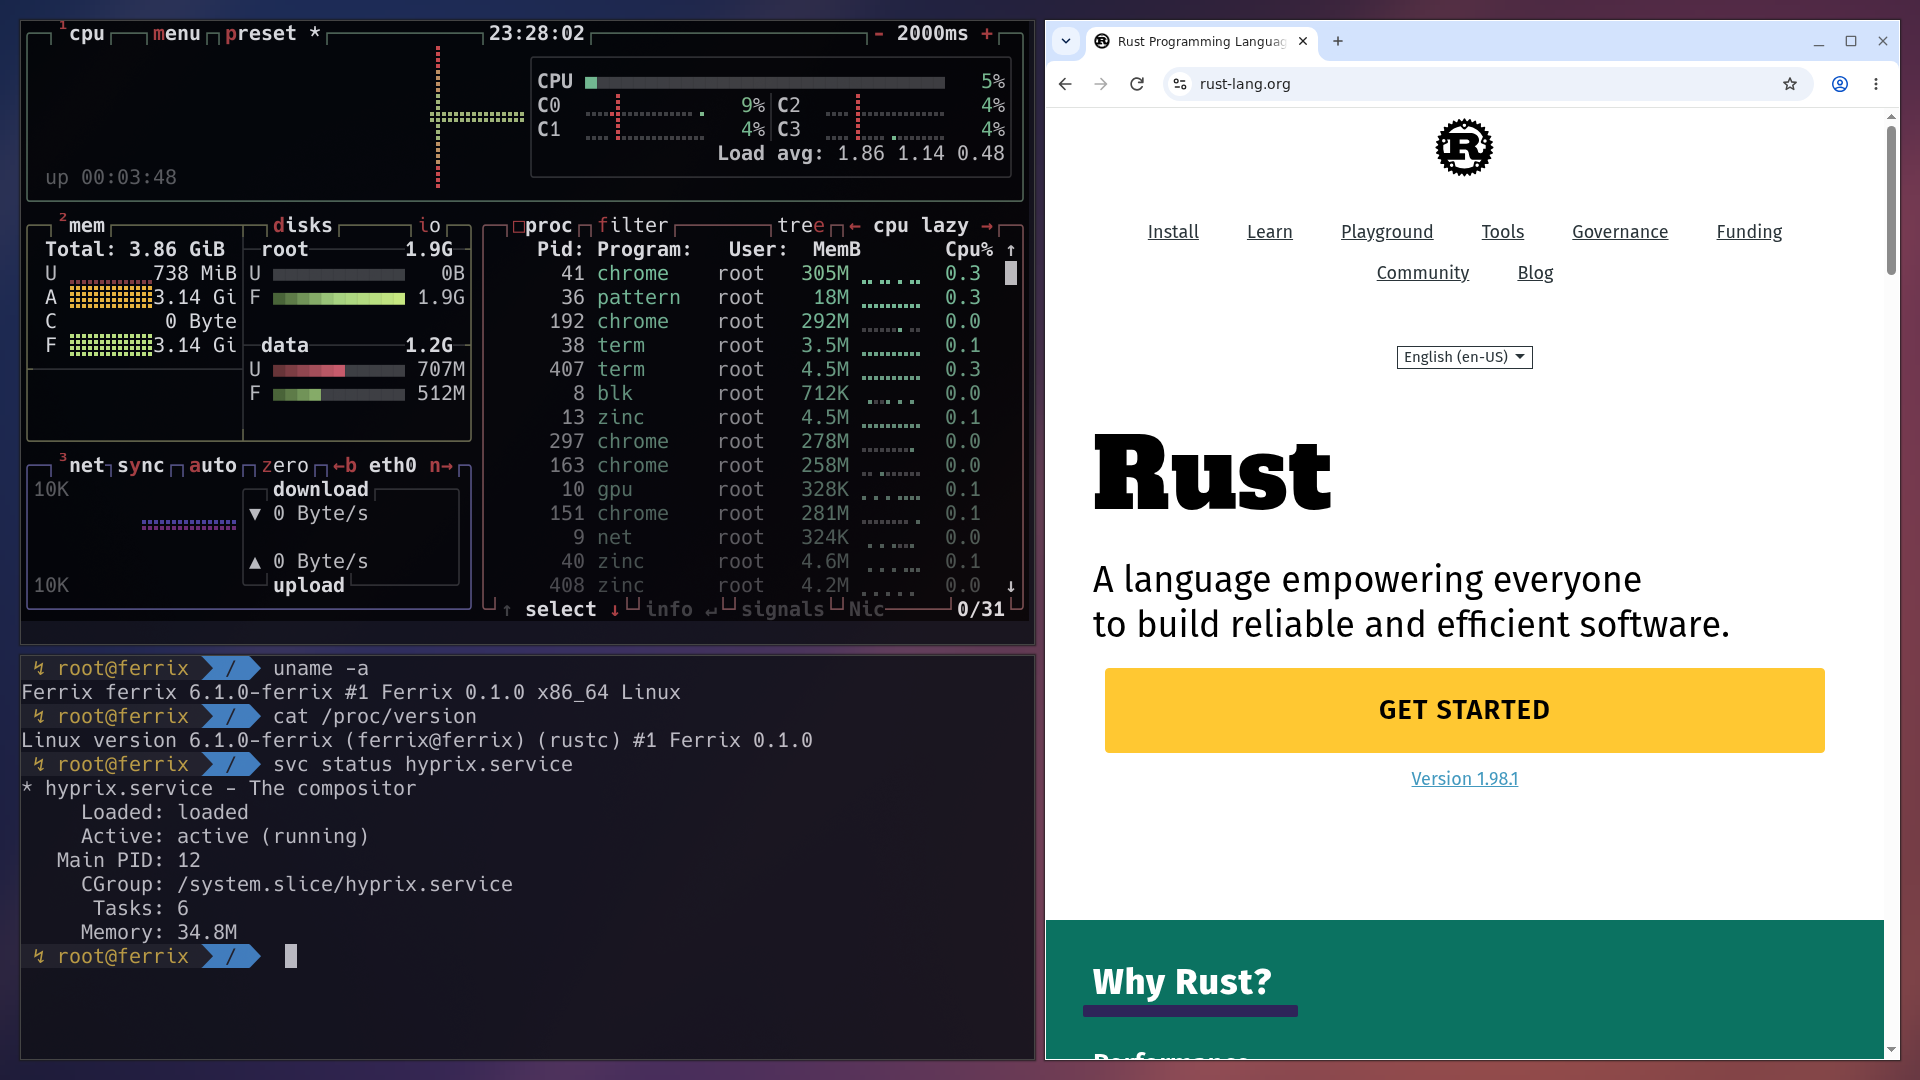
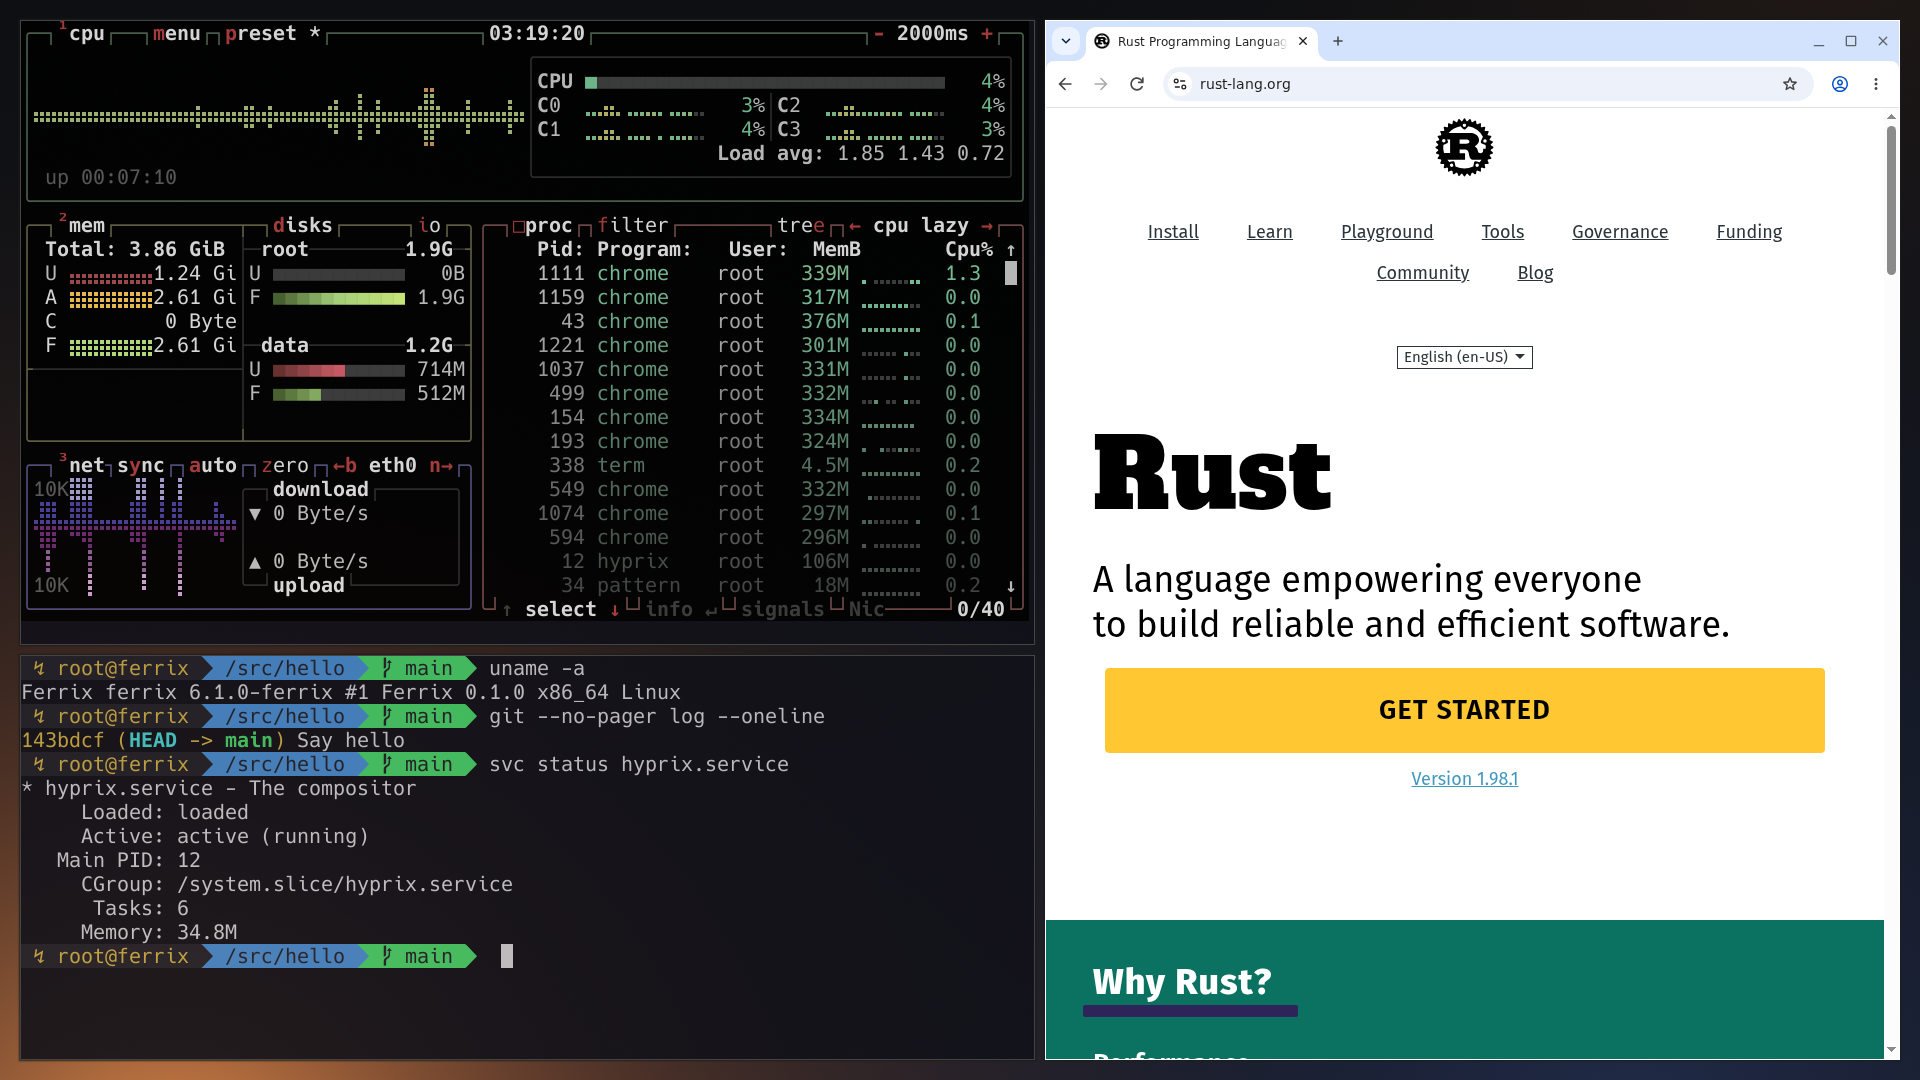
Re-shoot the screenshots: ember, a clean git prompt, and btop under load
The four captures come from one boot at 967bf3f5 with no kept wallpaper, so
xtask's own ember picture shows. zinc's agnoster prompt sits in a small clean
repository in the guest, and btop was captured after two minutes of Chrome
loading pages, so its CPU and eth0 history is real load, not its idle
baseline. btop is never typed into: windows move with hyprctl over ssh.
CAPTIONS.md says how each was made.

diff --git a/docs/brand/screenshots/CAPTIONS.md b/docs/brand/screenshots/CAPTIONS.md
@@ -1,54 +1,79 @@
 # Ferrix screenshots, 2026-09-27
 
-All the images come from one boot of Ferrix at main 2825c3e2. The guest is x86_64
+All the images come from one boot of Ferrix at main 967bf3f5. The guest is x86_64
 under QEMU with KVM, 4 vCPUs and 4 GiB of RAM, on a virtio-gpu 3D card (virgl). The
 screen is 1920x1080 and was captured over VNC. Nothing was edited after capture. The
-background is an abstract gradient made for these shots (a generated PNG, converted with
-`cargo xtask wallpapers`). It is not one of the kept wallpapers.
+background is `ember`, the picture xtask draws when no wallpaper is kept or named. It is
+not one of the kept wallpapers.
+
+The load btop shows is real: Chrome loaded and scrolled a page every ten seconds or so
+(rust-lang.org, Wikipedia, the Rust book, GitHub, docs.rs, the Rust blog) for about two
+minutes before each btop capture. The git prompt is a small repository made in the
+guest, `/src/hello`, with one commit and a clean tree.
 
 ## Captions
 
 - **desktop-hero.png**: The hyprix Wayland compositor on Ferrix (x86_64, KVM) with three
-  tiled windows: btop, zinc with its oh-my-zsh prompt after `uname -a`,
-  `cat /proc/version` and `svc status hyprix.service`, and Chrome 154 showing
-  rust-lang.org over the guest's network.
+  tiled windows: btop after two minutes of Chrome loading pages, zinc with its oh-my-zsh
+  prompt in a git repository after `uname -a`, `git log` and
+  `svc status hyprix.service`, and Chrome 154 showing rust-lang.org over the guest's
+  network.
 - **desktop-chrome.png**: Chrome 154 (Chrome for Testing) on Ferrix's hyprix compositor,
   showing the Wikipedia article on Rust. Chrome runs on ferrousli, Ferrix's own libc, and
   renders in software. x86_64, KVM.
-- **terminal-omz.png**: zinc, Ferrix's zsh-compatible shell, running oh-my-zsh's prompt
-  in hyprix's terminal. The output shows `uname`, the ring-3 driver processes (devmgr,
-  input, blk, net, gpu), the services `svc` runs, a tmpfs root beside a btrfs volume, and
-  `curl` fetching rust-lang.org over HTTPS. x86_64, KVM.
-- **btop.png**: btop, built against ferrousli, monitoring a live Ferrix system: Chrome's
-  processes, the compositor, the user-space drivers, memory, disks and eth0. x86_64, KVM.
+- **terminal-omz.png**: zinc, Ferrix's zsh-compatible shell, running oh-my-zsh's
+  agnoster prompt in hyprix's terminal, in a clean git repository. The output shows
+  `uname`, the ring-3 driver processes (devmgr, input, blk, net, gpu), the services `svc`
+  runs, a tmpfs root beside a btrfs volume, `git status`, and `curl` fetching
+  rust-lang.org over HTTPS. x86_64, KVM.
+- **btop.png**: btop, built against ferrousli, monitoring a live Ferrix system after two
+  minutes of Chrome loading pages: the CPU and eth0 history, Chrome's processes, the
+  compositor, the user-space drivers, memory and disks. x86_64, KVM.
 
 ## Commands
 
-On the host:
+On the host (`<empty>` is an empty directory, so no kept wallpaper is found and `ember`
+shows):
 
 ```
-git -C /home/sebastian/Documents/projects/os/ferrix worktree add -b shots .claude/worktrees/shots main
-# generated wallpapers/ferrix-ember.png (PIL gradient), then:
-FERRIX_WALLPAPERS=<scratch>/walls CARGO_TARGET_DIR=<worktree>/target \
-  cargo xtask wallpapers --from <scratch>/wallsrc
-FERRIX_WALLPAPERS=<scratch>/walls CARGO_TARGET_DIR=<worktree>/target \
+git -C /home/sebastian/Documents/projects/os/ferrix worktree add -b e4-shots .claude/worktrees/e4-shots main
+FERRIX_WALLPAPERS=<empty> CARGO_TARGET_DIR=<target> \
   cargo xtask run-compositor --arch x86_64 --chrome --release --tmpfs-root --accel kvm \
-    --vnc 127.0.0.1:61 --ssh 2297 --layout us --wallpaper ember
+    --vnc 127.0.0.1:74 --ssh 2374 --layout us
 ```
 
 `--layout us` makes the guest read US keys, so the VNC driver's keysyms type correctly.
 
-Driving the desktop (the steps given to `vncdrive.py 127.0.0.1 5961`, a copy with
-`super` and a few more keysyms added):
+The git repository, over ssh (`ssh -i ~/.local/share/ferrix/ssh/id_ed25519 -p 2374
+root@127.0.0.1`):
 
-- Chrome's address bar: `click 1380 84 1 key ctrl a ; type https://www.rust-lang.org key Return ;`
-- In zinc: `uname -a`, `cat /proc/version`, `svc status hyprix.service`
+```
+mkdir -p /src/hello/src && cd /src/hello
+# a Cargo.toml and a src/main.rs that prints "Hello from Ferrix"
+git init -q -b main && git add . && git commit -q -m "Say hello"
+```
+
+Driving the desktop (the steps given to `vncdrive.py 127.0.0.1 5974`, a copy with
+`super` and a few more keysyms added). btop is never typed into or clicked: windows are
+moved with `hyprctl` over ssh, which acts on the focused window.
+
 - A second terminal: `key super Return ;`. In it,
   `hyprctl dispatch resizeactive 80 110` (btop needs 80x24 cells and a half-screen
   tile gives 77x21), then `clear; btop`
-- Chrome alone: `key super shift 2 ;` then `key super 2 ;`, then the address bar set to
-  `https://en.wikipedia.org/wiki/Rust_(programming_language)`
-- The terminal shot: `hyprctl dispatch movetoworkspace 3`, then
-  `uname -srm`, `ps -o pid,comm | head -12`, `svc list | grep running`,
-  `df -h / /data`, `curl -sI https://rust-lang.org/ | head -3`
+- Load, repeated per page: `click 1500 84 1 key ctrl a ; type <url> key Return ;
+  sleep 7 wheel down 10 1470 600 sleep 2 wheel down 10 1470 600 sleep 2`
+- In the other zinc: `cd /src/hello`, `uname -a`, `git --no-pager log --oneline`,
+  `svc status hyprix.service`. Plain `git log` opens a pager, and a key meant for the
+  shell can save a file into the repository and make the prompt dirty.
+- The hero: a second round of loads, ending on `https://www.rust-lang.org`
+- btop alone, over ssh: `hyprctl dispatch focuswindow pid:<btop's term>`,
+  `hyprctl dispatch movetoworkspacesilent 4`, two minutes of loads in Chrome, then
+  `hyprctl dispatch workspace 4`
+- Chrome alone, over ssh: `hyprctl dispatch workspace 1`,
+  `hyprctl dispatch focuswindow pid:<chrome>`, `hyprctl dispatch movetoworkspace 2`, then
+  the address bar set to `https://en.wikipedia.org/wiki/Rust_(programming_language)`
+- The terminal shot, over ssh: `hyprctl dispatch workspace 1` (zinc is alone there now),
+  then `clear`, `uname -srm`, `ps -o pid,comm | head -12`, `svc list | grep running`,
+  `df -h / /data`, `git status --short --branch`,
+  `curl -sI https://rust-lang.org/ | head -3`
 - Every capture: `move 1919 1079 shot <file>.png`
